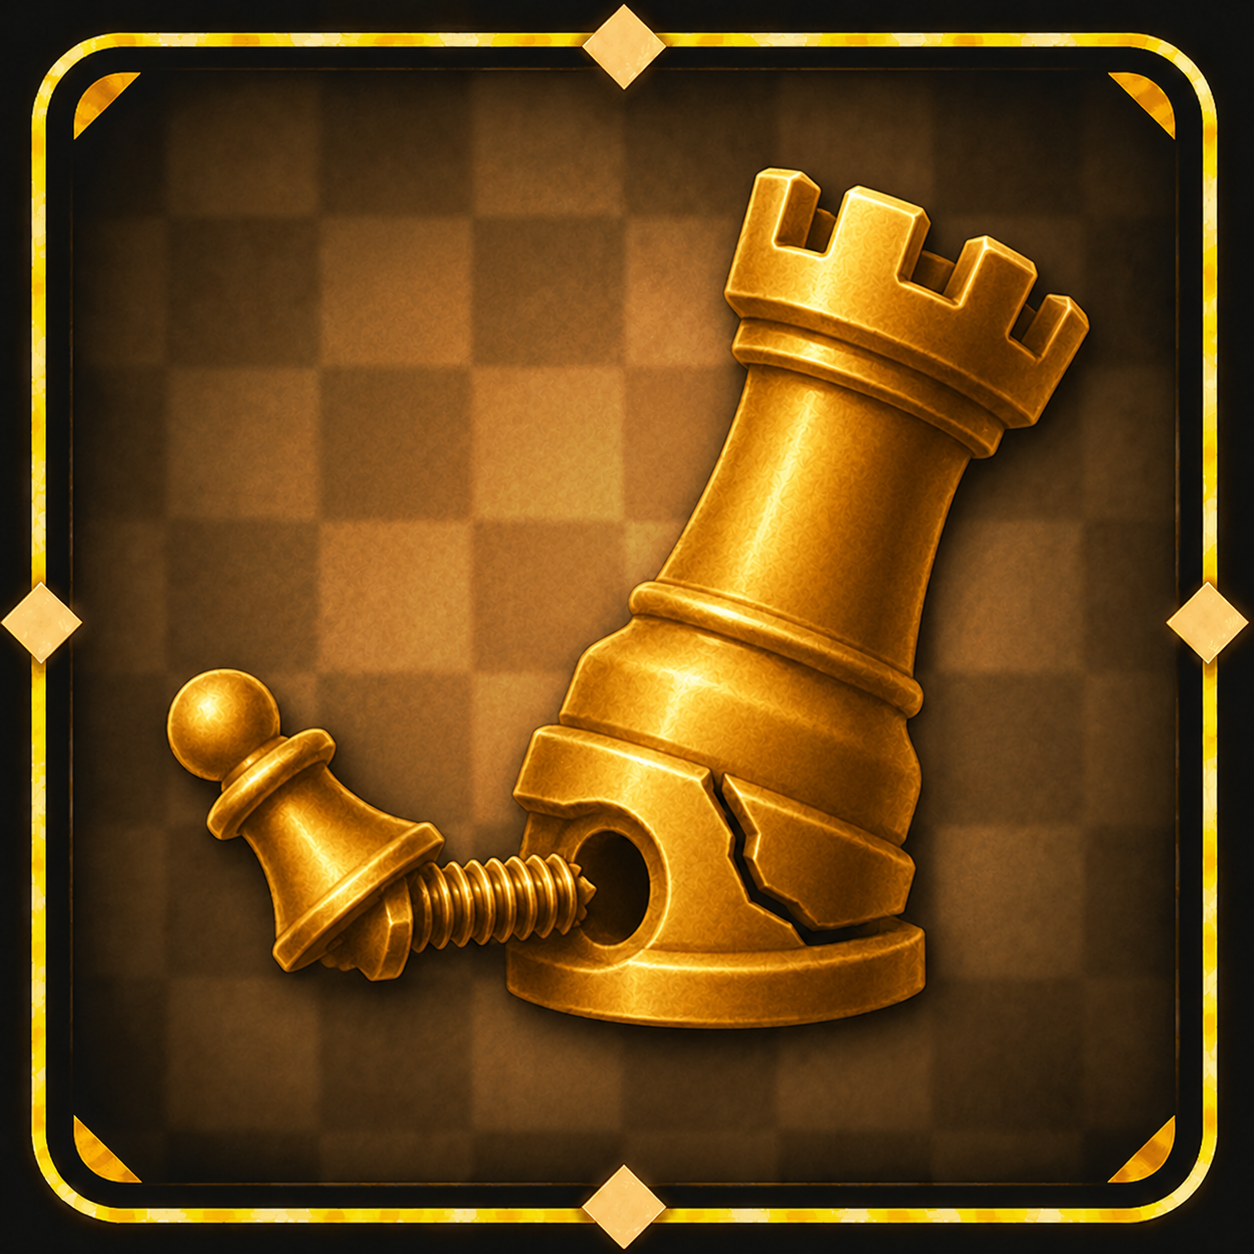
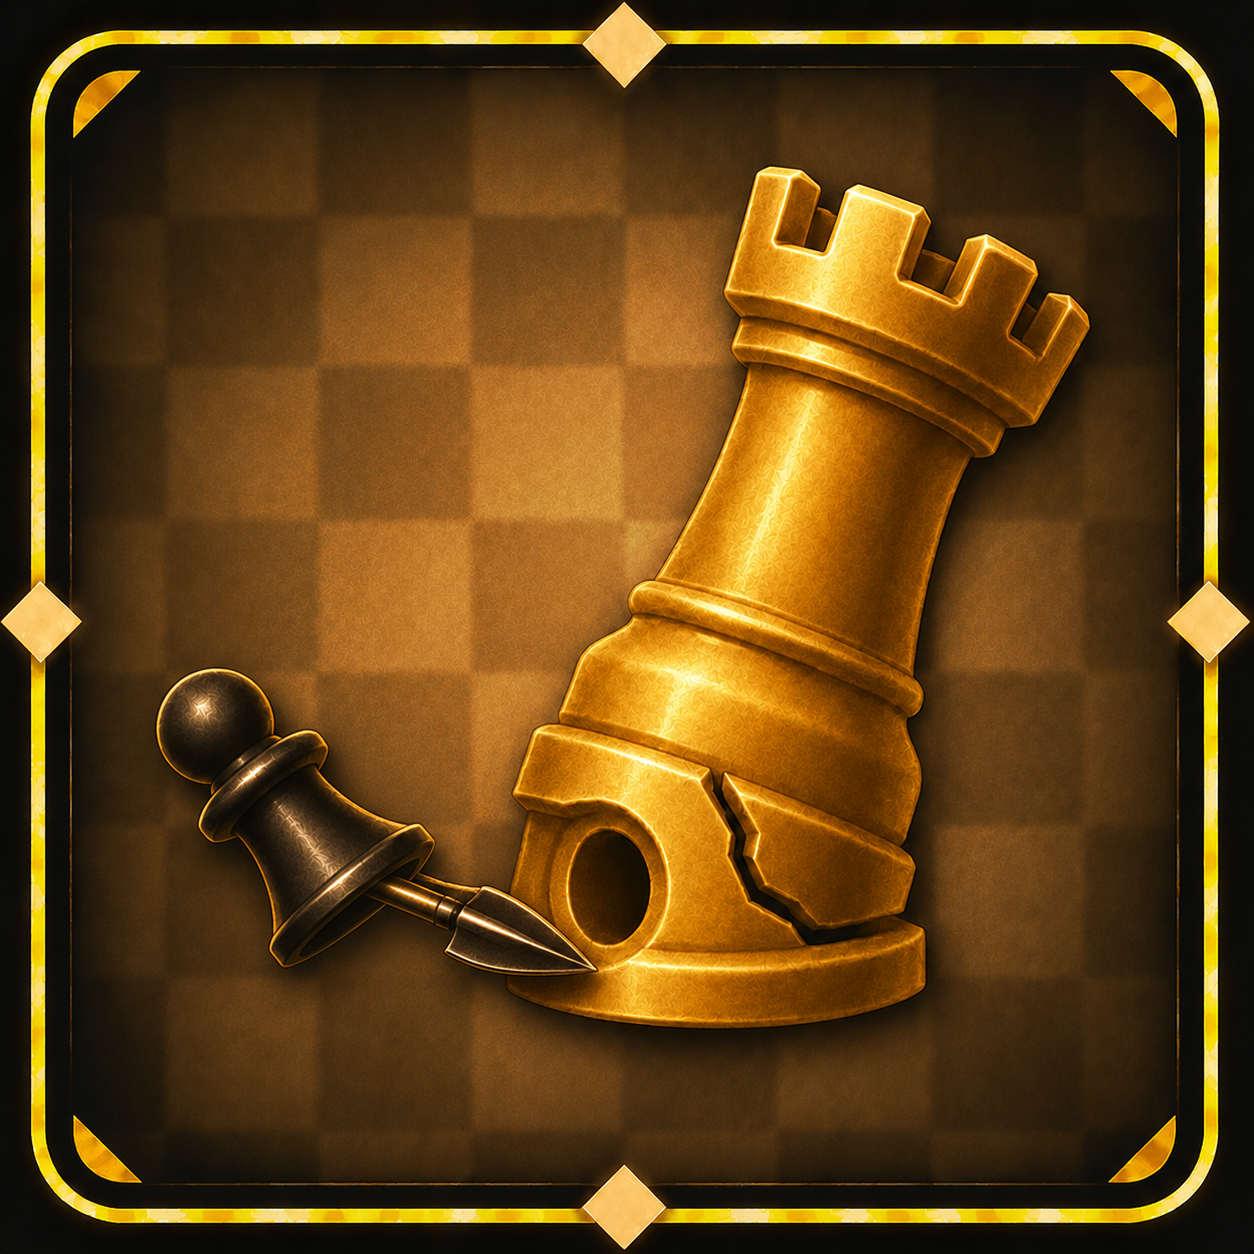
corecţia de culoare pentru „Prinderea piesei"
Dama dinăuntru devine neagră: e piesa adversă, cea prinsă. Colivia rămâne aurie
— ea e a noastră, e piesa care prinde.

Schimbarea are şi un câştig practic, dincolo de codul culorilor: acum dama e din
acelaşi aur ca gratiile din faţa ei şi se topeşte în colivie, iar la mărime mică
abia se distinge că e cineva înăuntru. În negru, silueta ei se desprinde imediat
dintre bare — exact ce trebuie să se vadă la o plăcuţă despre o piesă prinsă.

Lacătul e trecut explicit în lista de „nu atinge": ţine de colivie, iar înnegrit
s-ar pierde în silueta damei.

diff --git a/docs/prompturi-imagini/07-prinderea-piesei.md b/docs/prompturi-imagini/07-prinderea-piesei.md
@@ -1,7 +1,70 @@
 # 7. Prinderea piesei → `trapped.png`
 
-**Metafora:** un **turn** al cărui corp e o colivie cu gratii, iar înăuntru stă
-închisă o **damă**.
+**Metafora:** un turn al cărui corp e o colivie cu gratii, iar înăuntru stă
+închisă o damă.
+
+> **Starea:** plăcuța a ieșit bine. Rămâne o corecție — **dama dinăuntru devine
+> neagră**: e piesa adversă, cea prinsă.
+
+---
+
+## Corecție — culoarea damei
+
+Schimbarea are și un câștig practic, dincolo de codul culorilor. Acum dama e din
+același aur ca gratiile din fața ei, așa că **se topește în colivie** — la mărime
+mică abia se distinge că e cineva înăuntru. În negru, silueta ei se desprinde
+imediat dintre bare.
+
+Colivia rămâne aurie: ea e a noastră, e piesa care prinde. Lacătul, la fel — face
+parte din colivie.
+
+**Atașează la mesaj DOUĂ imagini:**
+1. [`Prinderea piesei.png`](../../surse-imagini/tactici/Prinderea%20piesei.png) — cea de corectat;
+2. [`Sacrificii.png`](../../surse-imagini/tactici/Sacrificii.png) — modelul de negru, unde a ieșit bine.
+
+```text
+Here are two images you made earlier. The first is the trapped-piece tile, which needs one correction. The second is the sacrifice tile — use the dark metal of its three black pieces as the model.
+
+In the FIRST image, the QUEEN standing inside the cage — the piece seen between the vertical bars, with the padlock hanging in front of her — is currently the same gold as the cage around her. Recolour her, and only her, to DARK, near-black bronze, exactly like the king, the rook and the bishop in the second image: highlight #4A3A1C, mid-tone #241A0A, deep shadow #0E0A04, with a thin warm gold rim light along her edges so her silhouette stays crisp.
+
+She is the captive, and the cage is her captor, so the two must no longer look like the same object. Right now she blends into the bars in front of her; after the change, her dark shape must separate from them at a glance.
+
+Recolour the whole of her — her crown, her collar, her body and her base — including the parts of her that show between the bars and any part visible behind them.
+
+DO NOT CHANGE ANYTHING ELSE:
+- the ROOK-CAGE stays exactly as it is and stays GOLD: its battlemented top, its vertical bars, the ring around them, its flared base, its size, its position;
+- the PADLOCK hanging on the front bars stays gold and untouched — it belongs to the cage, not to her;
+- the ornamental gold frame, its corner pieces and its four diamonds;
+- the brown chessboard background, its pattern and the warm glow;
+- the composition: the queen keeps exactly her present size, pose and position inside the cage;
+- the lighting direction and the drop shadow;
+- the square format and the framing.
+
+This is a recolour of one object in an existing image, not a new illustration. Nothing may move, resize or change shape.
+
+Keep the same square size, at least 1024x1024.
+```
+
+---
+
+**Salvează ca:** peste poza actuală.
+
+**Verificare**
+
+1. **Se desprinde dama de gratii?** Ăsta e testul: privește plăcuța mică. Trebuie
+   să se vadă din prima că e o formă închisă la culoare între bare aurii.
+2. **Lacătul a rămas auriu?** El ține de colivie. Dacă s-a înnegrit și el, se
+   pierde în silueta damei.
+3. **Colivia e neatinsă?** Creneluri, bare, inel, talpă — toate în același aur ca
+   înainte.
+4. **Dama e neagră pe toată înălțimea?** Coroană, guler, corp, talpă. Dacă doar
+   partea dintre bare s-a schimbat, arată tăiată în felii.
+
+---
+
+## Promptul original
+
+*Păstrat pentru referință — corecția de sus e cea care se folosește acum.*
 
 Puna e dublă, și de-aia merge: turnul e piesa care de obicei prinde, dar e și
 literalmente un turn — locul unde ești închis. Piesa care capturează *este*
